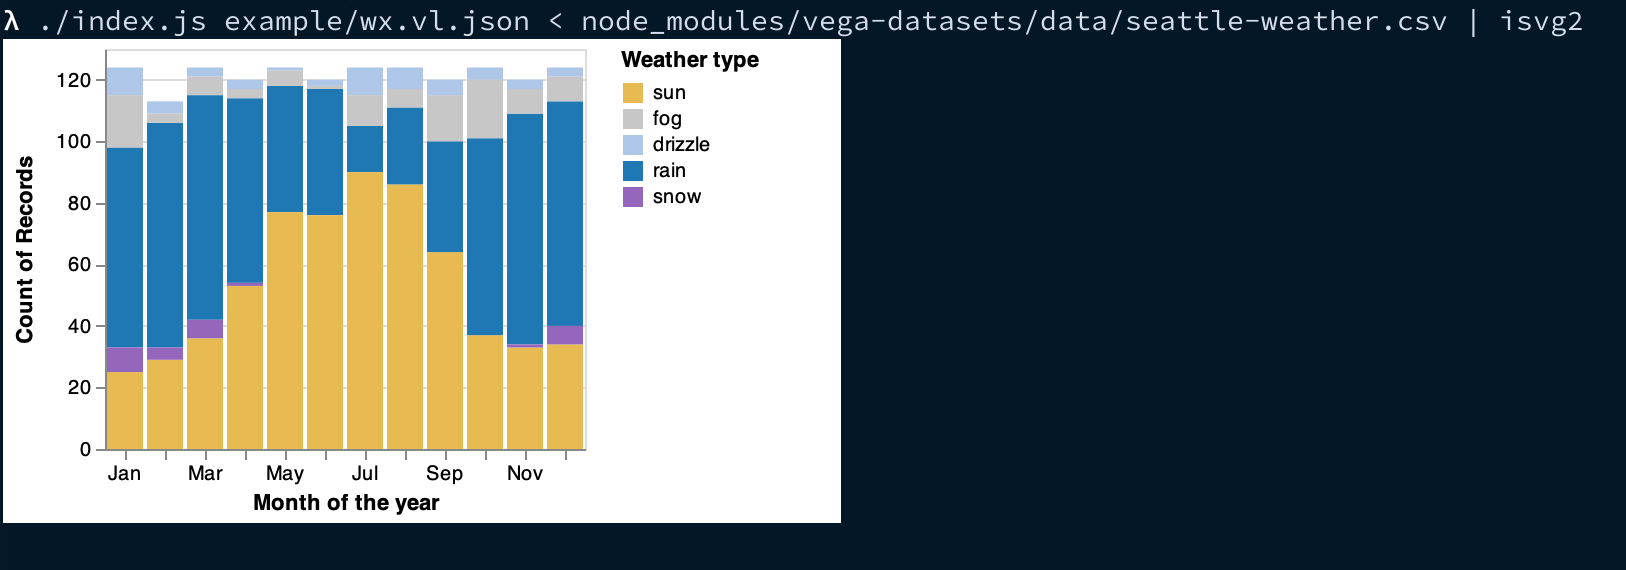
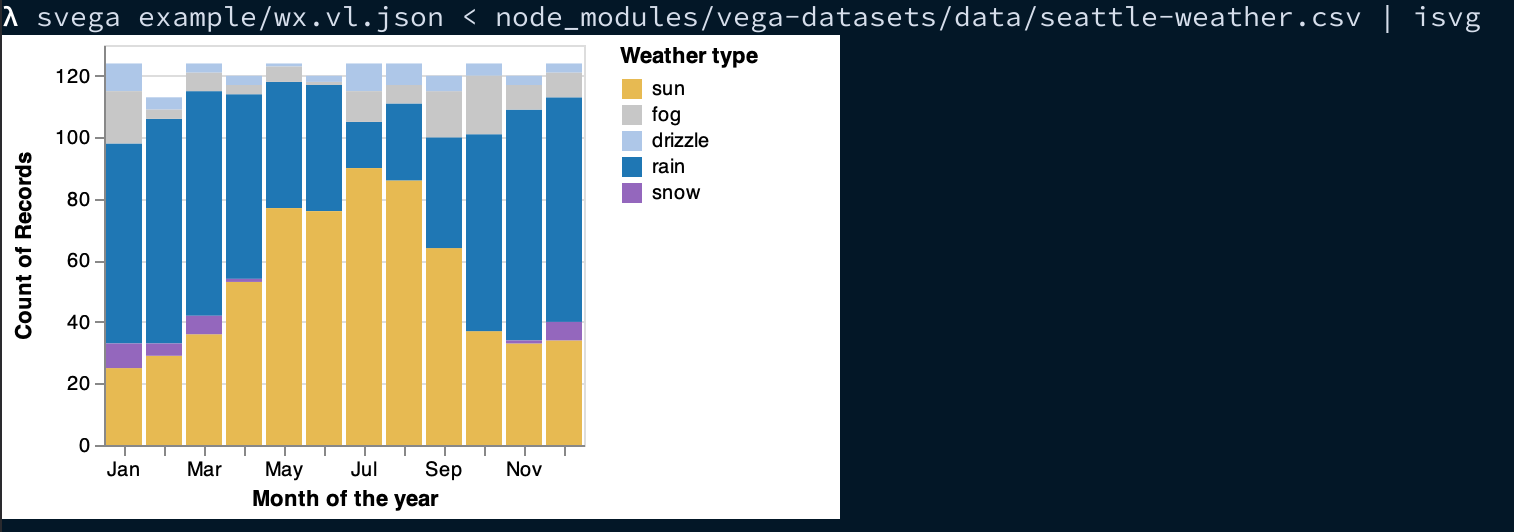
fix relative loading; update docs

Changed region(s): [[0.0, 0.0, 0.9934, 0.9925]]

diff --git a/index.js b/index.js
@@ -35,7 +35,7 @@ function usageExit(hint) {
 }
 
 function crash(msg) {
-  console.error(msg);
+  console.error("SVEGA:", msg);
   process.exit(1);
 }
 
@@ -65,7 +65,7 @@ const parsers = {
     return await toList(stream);
   },
   async csv(raw) {
-    return parseCsv(rawData, { header: true }).data;
+    return parseCsv(raw, { header: true }).data;
   },
 };
 
@@ -101,7 +101,8 @@ async function main() {
   if (!specArg) {
     usageExit("can't find spec");
   }
-  const specPath = resolve(__dirname, specArg);
+  const specPath = resolve(process.cwd(), specArg);
+
   const format =
     process.argv
       .filter((a) => a.startsWith("--format="))

diff --git a/example/readme.md b/example/readme.md
@@ -3,7 +3,7 @@ Install dev dependencies to pull in [vega-datasets](https://github.com/vega/vega
 Display from csv data:
 
 ```sh
-cat node_modules/vega-datasets/data/seattle-weather.csv | ./index.js example/wx.vl.json | isvg
+cat node_modules/vega-datasets/data/seattle-weather.csv | svega example/wx.vl.json | isvg
 ```
 
 Display from ndjson data:
@@ -11,7 +11,7 @@ Display from ndjson data:
 ```sh
 cat node_modules/vega-datasets/data/movies.json \
 | jq -c .[] \
-| ./index.js example.movies.vl.json --format=ndjson \
+| svega example.movies.vl.json --format=ndjson \
 | isvg
 ```
 
@@ -21,7 +21,7 @@ Display from json data:
 
 ```sh
 cat node_modules/vega-datasets/data/movies.json \
-| ./index.js example/movies.vl.json \
+| svega example/movies.vl.json \
 | isvg
 ```
 

diff --git a/README.md b/README.md
@@ -17,7 +17,7 @@ yarn add --global @junosuarez/svega
 ## Usage
 
 ```
-svega [opts] <spec.vl.json> < data.json
+svega [opts] <spec.vl.json> < data.json > out.svg
 
    stdin must be data, stdout will be svg or empty
 
@@ -36,3 +36,10 @@ The examples use `isvg`, the following shell alias, using [kitty terminal](https
 ```sh
 alias isvg='rsvg-convert --zoom=2 | kitty icat --align=left'
 ```
+
+## Alternatives
+
+There is an official [vega-cli](https://github.com/vega/vega/tree/master/packages/vega-cli) package that includes two tools that may suit your needs:
+
+- vg2svg
+- vl2svg
